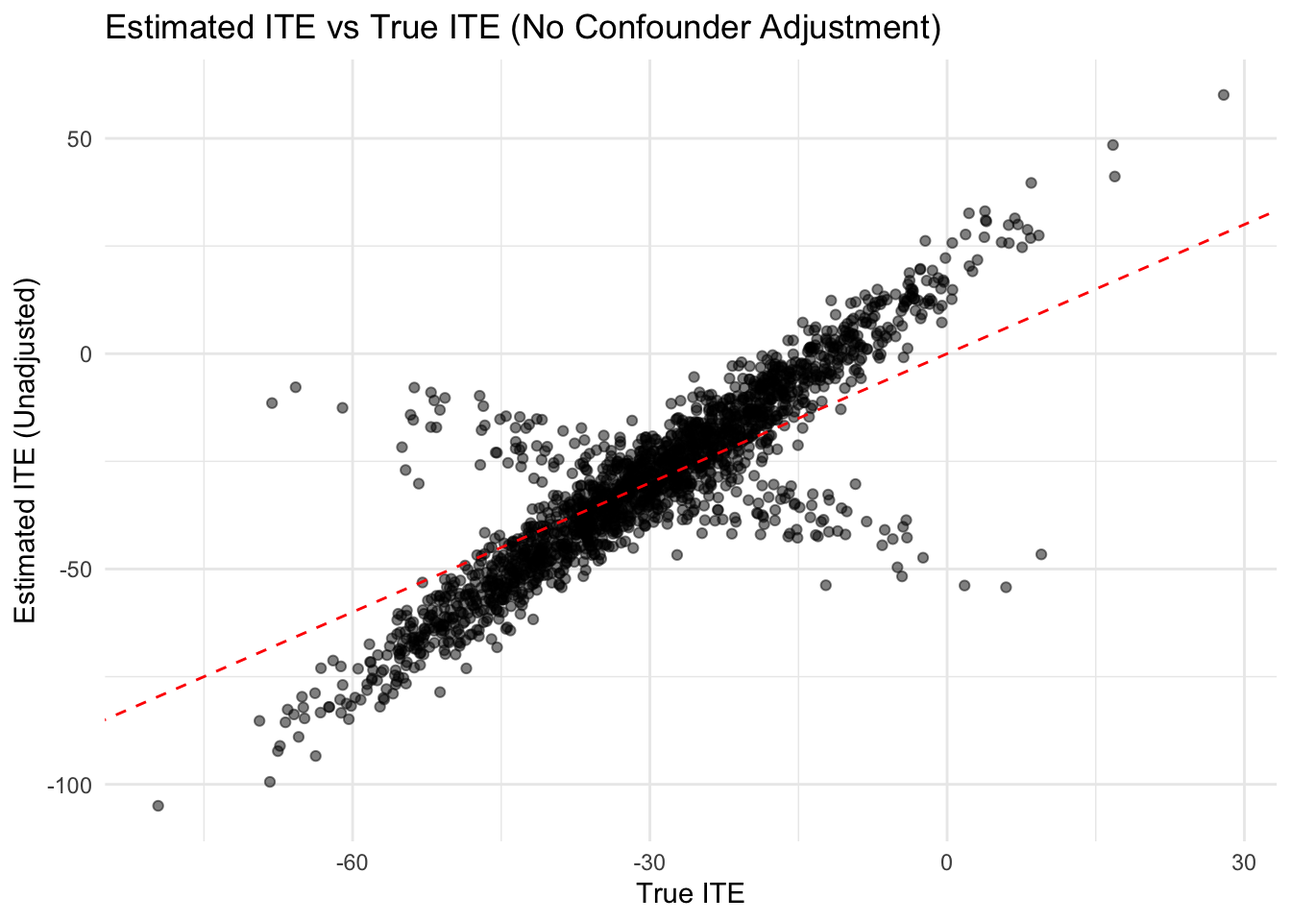
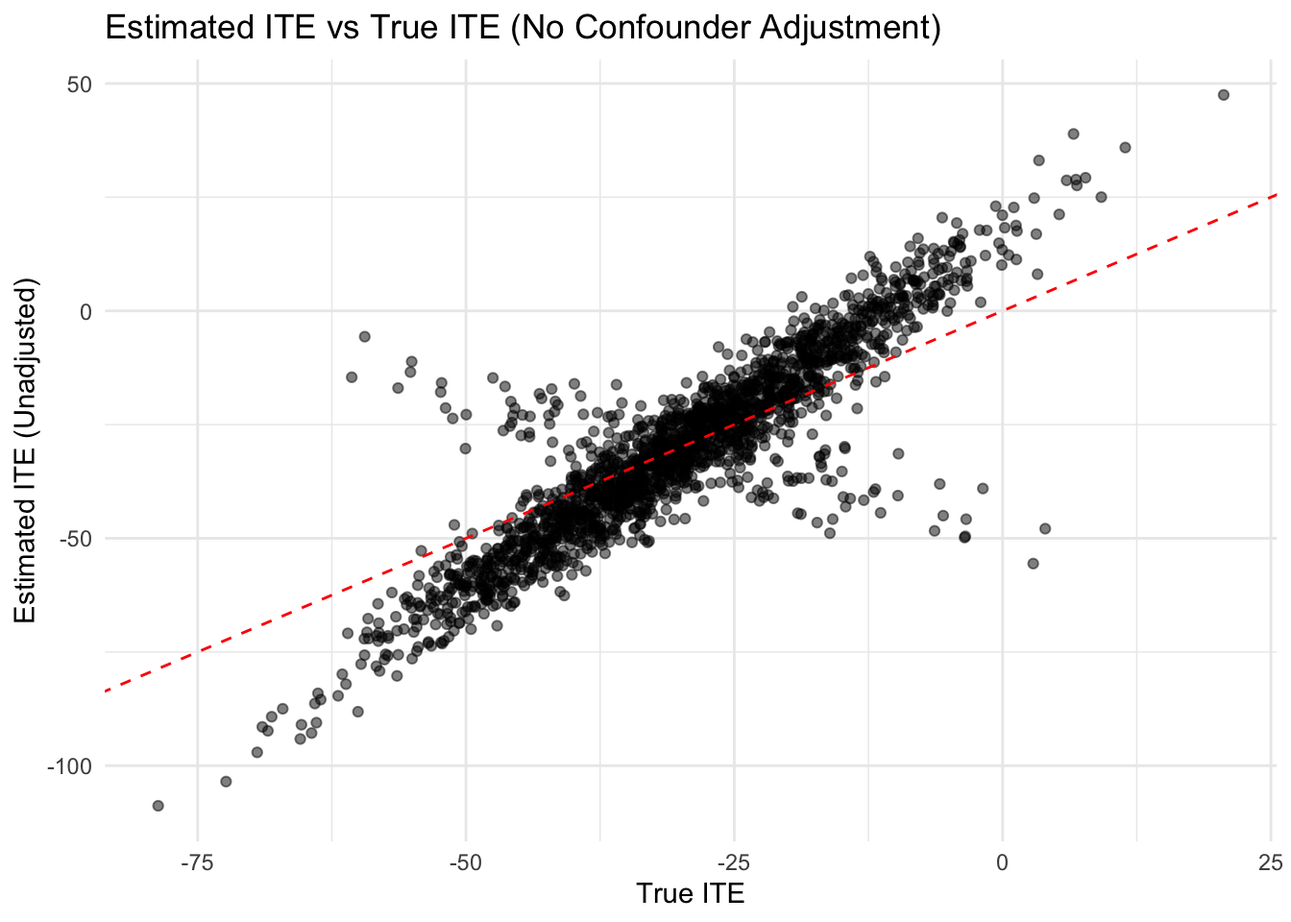
update week 1

diff --git a/docs/foundations-causal-thinking-in-public-health.html b/docs/foundations-causal-thinking-in-public-health.html
@@ -327,12 +327,12 @@ code span.wa { color: #60a0b0; font-weight: bold; font-style: italic; } /* Warni
 <span id="cb1-104"><a href="foundations-causal-thinking-in-public-health.html#cb1-104" tabindex="-1"></a>  <span class="fu">unique</span>(<span class="fu">predict</span>(model))</span>
 <span id="cb1-105"><a href="foundations-causal-thinking-in-public-health.html#cb1-105" tabindex="-1"></a>  })</span></code></pre></div>
 <pre><code>##     Treatment Mild_Avg Severe_Avg Total_Avg
-## 1 Treatment A     15 %     29.8 %    17.1 %
-## 2 Treatment B     10 %       20 %    18.6 %</code></pre>
+## 1 Treatment A     15 %       30 %    17.2 %
+## 2 Treatment B   10.2 %       20 %    18.6 %</code></pre>
 <pre><code>## `geom_smooth()` using formula = &#39;y ~ x&#39;
 ## `geom_smooth()` using formula = &#39;y ~ x&#39;</code></pre>
 <p><img src="Causal-Inference-Graduate_files/figure-html/unnamed-chunk-1-1.png" width="672" /></p>
-<pre><code>## [1] 0.1501008 0.1001850 0.2984300 0.2000042</code></pre>
+<pre><code>## [1] 0.1502633 0.1018750 0.3000350 0.2002608</code></pre>
 </div>
 <div id="introduction-to-counterfactuals-and-potential-outcomes" class="section level2 hasAnchor" number="1.2">
 <h2><span class="header-section-number">1.2</span> 1.2 Introduction to Counterfactuals and Potential Outcomes<a href="foundations-causal-thinking-in-public-health.html#introduction-to-counterfactuals-and-potential-outcomes" class="anchor-section" aria-label="Anchor link to header"></a></h2>
@@ -343,13 +343,13 @@ The causal effect for an individual is the difference: τi = Yi(1) − Yi(0)</p>
 <p>But here’s the catch: we can never observe both outcomes for the same person. This is known as the Fundamental Problem of Causal Inference. We only observe the outcome under the condition that actually occurred — everything else is unobserved, or counterfactual.</p>
 <p>As shown in the Simpson’s Paradox example above, failing to account for confounding variables can lead to conclusions that completely misrepresent the true causal effect. When we simply compare outcomes between treated and untreated groups without considering differences in their underlying characteristics (like disease severity), we risk attributing differences to the treatment that are actually due to selection bias. By thinking in terms of potential outcomes — what would have happened under treatment vs. no treatment — we can see how causal claims require more than just association. This framework makes clear that understanding the data-generating process is critical, and it motivates the need for methods that can uncover hidden structure in the data.</p>
 <p>While the average treatment effect (ATE) helps summarize the overall impact of a treatment, it often masks important variation across individuals. In practice, not everyone responds to treatment the same way — some benefit more than others, and some may even be harmed. This brings us to the concept of the Individual Treatment Effect (ITE), which asks: what was the treatment effect for this specific person? Although we can never observe both potential outcomes for a single individual, we can use modeling techniques to estimate ITEs and explore treatment effect heterogeneity. The following example demonstrates how this was done using simulated data.</p>
-<p>Section 1: Individual Treatment Effect (ITE)</p>
+<p>Individual Treatment Effect (ITE)</p>
 <p>In causal inference, the <strong>Individual Treatment Effect</strong> (ITE) measures how much one specific patient benefits from a treatment. ITE focuses on personalized benefits - how much an intervention would change the outcome for each person at the same time. The formula for the ITE is Yi(1) - Yi(0), where Yi(1) is the outcome if the person receives the treatment while Yi(0) is the outcome if the person does not receive the treatment.</p>
 <p>A fundamental problem in causal inference is that we can never observe both Yi(1) and Yi(0) for the same person, because each person either receives the treatment or does not, meaning one of the outcomes is missing. This is known as the fundamental problem of causal inference, and because of this, we use statistical methodologies and machine learning techniques to estimate ITE.</p>
 <p>To illustrate this concept, here is a healthcare scenario where I estimated the effect of a new blood pressure drug on patients. I accounted for characteristics in each patient like their age, BMI, and cholesterol levels, which may influence if they get the treatment or not and may influence their response to the treatment. Since I cannot observe each patient’s blood pressure both with and without the drug, I must estimate ITE by using statistical models.</p>
 <p>To do this, I first simulated healthcare data, including patient characteristics (covariates) and potential blood pressure outcomes. Next, I estimated the potential outcomes Y(0) and Y(1) using linear regression models for treated and untreated patients. Finally, I calculated the ITE as the difference between the predicted outcomes for each patient. By following this approach, I observed which patients benefit the most from the treatment.</p>
 <p>First up, I simulated the patient data. I created potential outcomes Y(0) and Y(1) for blood pressure. I intentionally assigned older people who have high cholesterol levels. Then, I computed the true ITE for each patient.</p>
-<p>Step 1: Simulating the Patient Data</p>
+<p>Simulating the Patient Data</p>
 <div class="sourceCode" id="cb5"><pre class="sourceCode r"><code class="sourceCode r"><span id="cb5-1"><a href="foundations-causal-thinking-in-public-health.html#cb5-1" tabindex="-1"></a>n <span class="ot">&lt;-</span> <span class="dv">2000</span></span>
 <span id="cb5-2"><a href="foundations-causal-thinking-in-public-health.html#cb5-2" tabindex="-1"></a></span>
 <span id="cb5-3"><a href="foundations-causal-thinking-in-public-health.html#cb5-3" tabindex="-1"></a>age <span class="ot">&lt;-</span> <span class="fu">rnorm</span>(n, <span class="at">mean =</span> <span class="dv">50</span>, <span class="at">sd =</span> <span class="dv">10</span>)</span>
@@ -374,15 +374,15 @@ The causal effect for an individual is the difference: τi = Yi(1) − Yi(0)</p>
 <span id="cb5-22"><a href="foundations-causal-thinking-in-public-health.html#cb5-22" tabindex="-1"></a>)</span>
 <span id="cb5-23"><a href="foundations-causal-thinking-in-public-health.html#cb5-23" tabindex="-1"></a></span>
 <span id="cb5-24"><a href="foundations-causal-thinking-in-public-health.html#cb5-24" tabindex="-1"></a><span class="fu">head</span>(data)</span></code></pre></div>
-<pre><code>##        age      bmi cholesterol treatment        y   true_ite
-## 1 51.21239 19.32571    199.1355         1 122.0544 -30.593752
-## 2 46.71113 18.38997    220.9961         1 140.2134 -21.167480
-## 3 35.14412 24.18724    269.4651         1 193.1101   6.837494
-## 4 34.57732 21.21429    224.7765         1 160.8229  -4.397648
-## 5 45.31836 32.00460    221.8089         1 147.0220 -18.600656
-## 6 50.34310 20.47678    214.2677         1 140.6280 -24.778958</code></pre>
+<pre><code>##        age      bmi cholesterol treatment        y  true_ite
+## 1 54.11946 28.84967    204.7884         0 170.9855 -34.87749
+## 2 50.63258 27.57561    180.9425         1 135.1774 -34.82342
+## 3 49.74311 23.44185    231.2146         1 151.0166 -18.75226
+## 4 55.98997 30.22157    222.0891         1 143.1399 -30.82974
+## 5 55.24231 32.36099    268.0598         1 152.7932 -15.14321
+## 6 45.45886 26.21826    118.4243         1 102.4790 -50.63645</code></pre>
 <p>Next, I estimated treatment effects using regression. Since I can’t observe both Y(0) and Y(1) for any individual, I used separate regressions for treatment and control groups. I used the models to predict counter factual outcomes for all patients and to compute the estimated ITE as the difference between Y(1) and Y(0).</p>
-<p>Step 2: Estimate Treatment Effects Using Regression</p>
+<p>Estimate Treatment Effects Using Regression</p>
 <div class="sourceCode" id="cb7"><pre class="sourceCode r"><code class="sourceCode r"><span id="cb7-1"><a href="foundations-causal-thinking-in-public-health.html#cb7-1" tabindex="-1"></a>control_model <span class="ot">&lt;-</span> <span class="fu">lm</span>(y <span class="sc">~</span> age <span class="sc">+</span> bmi <span class="sc">+</span> cholesterol, <span class="at">data =</span> data, <span class="at">subset =</span> (treatment <span class="sc">==</span> <span class="dv">0</span>))</span>
 <span id="cb7-2"><a href="foundations-causal-thinking-in-public-health.html#cb7-2" tabindex="-1"></a>treatment_model <span class="ot">&lt;-</span> <span class="fu">lm</span>(y <span class="sc">~</span> age <span class="sc">+</span> bmi <span class="sc">+</span> cholesterol, <span class="at">data =</span> data, <span class="at">subset =</span> (treatment <span class="sc">==</span> <span class="dv">1</span>))</span>
 <span id="cb7-3"><a href="foundations-causal-thinking-in-public-health.html#cb7-3" tabindex="-1"></a></span>
@@ -393,14 +393,14 @@ The causal effect for an individual is the difference: τi = Yi(1) − Yi(0)</p>
 <span id="cb7-8"><a href="foundations-causal-thinking-in-public-health.html#cb7-8" tabindex="-1"></a></span>
 <span id="cb7-9"><a href="foundations-causal-thinking-in-public-health.html#cb7-9" tabindex="-1"></a><span class="fu">head</span>(data[<span class="fu">c</span>(<span class="st">&quot;ite_estimate&quot;</span>, <span class="st">&quot;y0_hat&quot;</span>, <span class="st">&quot;y1_hat&quot;</span>)])</span></code></pre></div>
 <pre><code>##   ite_estimate   y0_hat   y1_hat
-## 1   -29.969201 158.3034 128.3342
-## 2   -19.019231 164.6406 145.6214
-## 3     6.503107 182.2635 188.7666
-## 4    -6.819532 173.2662 166.4467
-## 5   -17.850332 170.1936 152.3433
-## 6   -24.491258 162.0081 137.5169</code></pre>
+## 1    -33.13467 162.7963 129.6616
+## 2    -36.80210 159.4817 122.6796
+## 3    -20.75595 168.7458 147.9899
+## 4    -29.82166 165.6474 135.8257
+## 5    -15.29151 175.6609 160.3694
+## 6    -50.40386 149.3496  98.9457</code></pre>
 <p>Now, I plotted the true ITE vs the estimated ITE. Here, each point is a patient, and the red dashed line represents the ideal estimation. If the point fits well with the line, then the model is accurate.</p>
-<p>Step 3: Visualizing the Estimated ITE</p>
+<p>Visualizing the Estimated ITE</p>
 <div class="sourceCode" id="cb9"><pre class="sourceCode r"><code class="sourceCode r"><span id="cb9-1"><a href="foundations-causal-thinking-in-public-health.html#cb9-1" tabindex="-1"></a><span class="fu">library</span>(ggplot2)</span>
 <span id="cb9-2"><a href="foundations-causal-thinking-in-public-health.html#cb9-2" tabindex="-1"></a></span>
 <span id="cb9-3"><a href="foundations-causal-thinking-in-public-health.html#cb9-3" tabindex="-1"></a><span class="fu">ggplot</span>(data, <span class="fu">aes</span>(<span class="at">x =</span> true_ite, <span class="at">y =</span> ite_estimate)) <span class="sc">+</span> </span>
@@ -428,20 +428,138 @@ The causal effect for an individual is the difference: τi = Yi(1) − Yi(0)</p>
 <span id="cb10-15"><a href="foundations-causal-thinking-in-public-health.html#cb10-15" tabindex="-1"></a>  <span class="fu">theme_minimal</span>()</span></code></pre></div>
 <p><img src="Causal-Inference-Graduate_files/figure-html/unnamed-chunk-5-1.png" width="672" /></p>
 <p>Here are the top 10 patients who benefited the most from the treatment. This helps me identify patients who are most likely to benefit, as well as focus on individuals with high predicted response.</p>
-<p>Step 4: Patients Who Benefit Most</p>
+<p>Patients Who Benefit Most</p>
 <div class="sourceCode" id="cb11"><pre class="sourceCode r"><code class="sourceCode r"><span id="cb11-1"><a href="foundations-causal-thinking-in-public-health.html#cb11-1" tabindex="-1"></a>top_beneficiaries <span class="ot">&lt;-</span> data[<span class="fu">order</span>(data<span class="sc">$</span>ite_estimate), ][<span class="dv">1</span><span class="sc">:</span><span class="dv">10</span>, ]</span>
 <span id="cb11-2"><a href="foundations-causal-thinking-in-public-health.html#cb11-2" tabindex="-1"></a>top_beneficiaries[, <span class="fu">c</span>(<span class="st">&quot;age&quot;</span>, <span class="st">&quot;bmi&quot;</span>, <span class="st">&quot;cholesterol&quot;</span>, <span class="st">&quot;ite_estimate&quot;</span>)]</span></code></pre></div>
 <pre><code>##           age      bmi cholesterol ite_estimate
-## 890  79.56531 25.25102    132.2227    -76.89534
-## 1085 71.13526 20.28622    136.2727    -67.79399
-## 1671 65.88424 19.01770    123.1142    -67.05699
-## 530  66.57976 24.36929    131.6173    -65.18529
-## 1342 70.36012 28.86483    143.2993    -65.12207
-## 715  60.57192 21.67688    114.3072    -65.01186
-## 650  75.32424 14.62258    157.9358    -64.72851
-## 1893 78.52943 27.31188    169.1796    -64.49124
-## 311  56.74453 32.99274    109.4880    -63.31023
-## 1547 67.78288 27.14410    141.4462    -63.29710</code></pre>
+## 1030 76.28003 25.97585    130.3378    -77.58483
+## 540  77.31732 25.55016    144.2478    -74.43538
+## 46   68.23885 27.10988    125.5450    -71.01353
+## 1835 73.39986 22.93239    150.4312    -68.63314
+## 719  69.83239 30.06653    139.6650    -68.40047
+## 180  76.01105 22.17920    162.3714    -67.64216
+## 1477 74.43488 24.45408    157.5583    -67.54482
+## 608  68.45007 24.63717    138.6092    -67.26685
+## 1596 78.05473 23.59106    173.7549    -66.28034
+## 1189 71.16202 27.10987    151.2803    -66.19909</code></pre>
+<p>1.3 Causal Estimands and Identification</p>
+<p>Causal estimands are the quantities we aim to estimate to understand the effect of a treatment or intervention. The most common estimands include:
+- Average Treatment Effect (ATE): Measures the average difference in outcomes if everyone received the treatment versus if no one did.
+- Average Treatment Effect on the Treated (ATT): Measures the effect of treatment for those who actually received the treatment.
+- Average Treatment Effect on the Controls (ATC): Measures the effect for those who did not receive the treatment.
+- Conditional Average Treatment Effect (CATE): Measures the treatment effect for subgroups defined by observed characteristics (e.g., older vs. younger patients).</p>
+<p>Identification is the process of linking a causal estimand (like ATE) to observable data. Without valid identification, any estimates we produce may be biased or incorrect. One major challenge in causal inference is that we can never observe both potential outcomes for the same person — only the outcome under the actual treatment they received. This is the Fundamental Problem of Causal Inference.</p>
+<p>To overcome this, we make assumptions (like unconfoundedness or selection on observables) and use statistical models to estimate the missing potential outcome.</p>
+<p>Conditional Average Treatment Effect (CATE)</p>
+<p>The Conditional Average Treatment Effect (CATE) represents the expected treatment effect for a specific subgroup of patients with a particular characteristic. Unlike the Average Treatment Effect (ATE), which measures the treatment’s effect on the entire population, CATE understands that the population is not homogeneous and conditions on certain variables (e.g. age, BMI, cholesterol). CATE can be described as E[Y(1) - Y(0) | X], where X is the observed characteristics. This allows researchers to see which groups benefit more or less from a treatment, which can in-turn affect future decisions.</p>
+<p>For example, in clinical trials, a drug may work more effectively for older patients than younger ones. Another example would be a job program working more effectively on people with college degrees than people without college degrees. Estimating CATE allows business owners, researchers, and policymakers to make effective decisions that optimize outcomes for all groups.</p>
+<p>To estimate CATE from observational data, I must fit separate predictive models for the treated and control groups and then compute the expected difference in outcomes for different subgroups. I can estimate the CATE for age groups by splitting the data into younger individuals (age &lt; 40 years) and older individuals (age &gt;= 40 years) and then computing the average Individual Treatment Effect (ITE) within each group. I used the patient data from the above simulation and I estimated the individual treatment effect (ITE). Then, I computed the conditional average treatment effect (CATE) for age groups (young and old).</p>
+<p>Computing the Conditional Average Treatment Effect (CATE) for Age Groups</p>
+<div class="sourceCode" id="cb13"><pre class="sourceCode r"><code class="sourceCode r"><span id="cb13-1"><a href="foundations-causal-thinking-in-public-health.html#cb13-1" tabindex="-1"></a>threshold <span class="ot">&lt;-</span> <span class="dv">50</span></span>
+<span id="cb13-2"><a href="foundations-causal-thinking-in-public-health.html#cb13-2" tabindex="-1"></a></span>
+<span id="cb13-3"><a href="foundations-causal-thinking-in-public-health.html#cb13-3" tabindex="-1"></a>cate_young <span class="ot">&lt;-</span> <span class="fu">mean</span>(data<span class="sc">$</span>ite_estimate[data<span class="sc">$</span>age <span class="sc">&lt;</span> threshold])</span>
+<span id="cb13-4"><a href="foundations-causal-thinking-in-public-health.html#cb13-4" tabindex="-1"></a>cate_old <span class="ot">&lt;-</span> <span class="fu">mean</span>(data<span class="sc">$</span>ite_estimate[data<span class="sc">$</span>age <span class="sc">&gt;=</span> threshold])</span></code></pre></div>
+<p>Finally, I stored and display the CATE results.</p>
+<p>Store and Display CATE Results</p>
+<div class="sourceCode" id="cb14"><pre class="sourceCode r"><code class="sourceCode r"><span id="cb14-1"><a href="foundations-causal-thinking-in-public-health.html#cb14-1" tabindex="-1"></a>results <span class="ot">&lt;-</span> <span class="fu">data.frame</span>(</span>
+<span id="cb14-2"><a href="foundations-causal-thinking-in-public-health.html#cb14-2" tabindex="-1"></a>  <span class="at">age_group =</span> <span class="fu">c</span>(<span class="st">&quot;&lt; 40 years&quot;</span>, <span class="st">&quot;&gt;= 40 years&quot;</span>),</span>
+<span id="cb14-3"><a href="foundations-causal-thinking-in-public-health.html#cb14-3" tabindex="-1"></a>  <span class="at">cate_estimate =</span> <span class="fu">c</span>(cate_young, cate_old)</span>
+<span id="cb14-4"><a href="foundations-causal-thinking-in-public-health.html#cb14-4" tabindex="-1"></a>)</span>
+<span id="cb14-5"><a href="foundations-causal-thinking-in-public-health.html#cb14-5" tabindex="-1"></a></span>
+<span id="cb14-6"><a href="foundations-causal-thinking-in-public-health.html#cb14-6" tabindex="-1"></a><span class="fu">print</span>(results)</span></code></pre></div>
+<pre><code>##     age_group cate_estimate
+## 1  &lt; 40 years     -23.10563
+## 2 &gt;= 40 years     -38.47450</code></pre>
+<p>From the table, we can see that the CATE is more negative for older individuals, meaning that the treatment appears to be more effective for people older than 40. Because the CATE for younger individuals is lower, this means that the treatment is less effective for young people. This shows that age influences the effectiveness of the treatment. Here is a visualization of the CATE estimates.</p>
+<p>Visualization of the CATE Effects Based on Age</p>
+<div class="sourceCode" id="cb16"><pre class="sourceCode r"><code class="sourceCode r"><span id="cb16-1"><a href="foundations-causal-thinking-in-public-health.html#cb16-1" tabindex="-1"></a>cate_young_se <span class="ot">&lt;-</span> <span class="fu">sd</span>(data<span class="sc">$</span>ite_estimate[data<span class="sc">$</span>age <span class="sc">&lt;</span> threshold]) <span class="sc">/</span> <span class="fu">sqrt</span>(<span class="fu">sum</span>(data<span class="sc">$</span>age <span class="sc">&lt;</span> threshold))</span>
+<span id="cb16-2"><a href="foundations-causal-thinking-in-public-health.html#cb16-2" tabindex="-1"></a>cate_old_se <span class="ot">&lt;-</span> <span class="fu">sd</span>(data<span class="sc">$</span>ite_estimate[data<span class="sc">$</span>age <span class="sc">&gt;=</span> threshold]) <span class="sc">/</span> <span class="fu">sqrt</span>(<span class="fu">sum</span>(data<span class="sc">$</span>age <span class="sc">&gt;=</span> threshold))</span>
+<span id="cb16-3"><a href="foundations-causal-thinking-in-public-health.html#cb16-3" tabindex="-1"></a></span>
+<span id="cb16-4"><a href="foundations-causal-thinking-in-public-health.html#cb16-4" tabindex="-1"></a>results <span class="ot">&lt;-</span> <span class="fu">data.frame</span>(</span>
+<span id="cb16-5"><a href="foundations-causal-thinking-in-public-health.html#cb16-5" tabindex="-1"></a>  <span class="at">age_group =</span> <span class="fu">c</span>(<span class="st">&quot;&lt; 50 years&quot;</span>, <span class="st">&quot;&gt;= 50 years&quot;</span>),</span>
+<span id="cb16-6"><a href="foundations-causal-thinking-in-public-health.html#cb16-6" tabindex="-1"></a>  <span class="at">cate_estimate =</span> <span class="fu">c</span>(cate_young, cate_old),</span>
+<span id="cb16-7"><a href="foundations-causal-thinking-in-public-health.html#cb16-7" tabindex="-1"></a>  <span class="at">lower =</span> <span class="fu">c</span>(cate_young <span class="sc">-</span> <span class="fl">1.96</span> <span class="sc">*</span> cate_young_se, cate_old <span class="sc">-</span> <span class="fl">1.96</span> <span class="sc">*</span> cate_old_se),</span>
+<span id="cb16-8"><a href="foundations-causal-thinking-in-public-health.html#cb16-8" tabindex="-1"></a>  <span class="at">upper =</span> <span class="fu">c</span>(cate_young <span class="sc">+</span> <span class="fl">1.96</span> <span class="sc">*</span> cate_young_se, cate_old <span class="sc">+</span> <span class="fl">1.96</span> <span class="sc">*</span> cate_old_se)</span>
+<span id="cb16-9"><a href="foundations-causal-thinking-in-public-health.html#cb16-9" tabindex="-1"></a>)</span>
+<span id="cb16-10"><a href="foundations-causal-thinking-in-public-health.html#cb16-10" tabindex="-1"></a></span>
+<span id="cb16-11"><a href="foundations-causal-thinking-in-public-health.html#cb16-11" tabindex="-1"></a><span class="fu">ggplot</span>(results, <span class="fu">aes</span>(<span class="at">y =</span> age_group, <span class="at">x =</span> cate_estimate)) <span class="sc">+</span></span>
+<span id="cb16-12"><a href="foundations-causal-thinking-in-public-health.html#cb16-12" tabindex="-1"></a>  <span class="fu">geom_point</span>(<span class="at">color =</span> <span class="st">&quot;red&quot;</span>, <span class="at">size =</span> <span class="dv">2</span>) <span class="sc">+</span>  </span>
+<span id="cb16-13"><a href="foundations-causal-thinking-in-public-health.html#cb16-13" tabindex="-1"></a>  <span class="fu">geom_errorbar</span>(<span class="fu">aes</span>(<span class="at">xmin =</span> lower, <span class="at">xmax =</span> upper), <span class="at">width =</span> <span class="fl">0.4</span>, <span class="at">color =</span> <span class="st">&quot;blue&quot;</span>) <span class="sc">+</span> </span>
+<span id="cb16-14"><a href="foundations-causal-thinking-in-public-health.html#cb16-14" tabindex="-1"></a>  <span class="fu">geom_vline</span>(<span class="at">xintercept =</span> <span class="dv">0</span>, <span class="at">linetype =</span> <span class="st">&quot;dashed&quot;</span>, <span class="at">color =</span> <span class="st">&quot;black&quot;</span>) <span class="sc">+</span> </span>
+<span id="cb16-15"><a href="foundations-causal-thinking-in-public-health.html#cb16-15" tabindex="-1"></a>  <span class="fu">labs</span>(<span class="at">title =</span> <span class="st">&quot;Subgroup Analysis of Treatment Effect&quot;</span>,</span>
+<span id="cb16-16"><a href="foundations-causal-thinking-in-public-health.html#cb16-16" tabindex="-1"></a>       <span class="at">x =</span> <span class="st">&quot;Conditional Average Treatment Effect (CATE)&quot;</span>,</span>
+<span id="cb16-17"><a href="foundations-causal-thinking-in-public-health.html#cb16-17" tabindex="-1"></a>       <span class="at">y =</span> <span class="st">&quot;Age Group&quot;</span>) <span class="sc">+</span></span>
+<span id="cb16-18"><a href="foundations-causal-thinking-in-public-health.html#cb16-18" tabindex="-1"></a>  <span class="fu">theme_minimal</span>()</span></code></pre></div>
+<p><img src="Causal-Inference-Graduate_files/figure-html/unnamed-chunk-9-1.png" width="672" /></p>
+<p>Average Treatment Effect (ATE)</p>
+<p>The <strong>Average Treatment Effect (ATE)</strong> represents the impact of a treatment or exposure across an entire population. It is the difference between the average outcome with treatment and the average outcome without treatment. ATE is expressed as E[Y(1)] - E[Y(0)] where Y(1) is the potential outcome if treated and Y(0) is the potential outcome if not treated. ATE measures the treatment’s effectiveness but it also assumes homogeneity between the two groups, meaning it doesn’t account for differences within the groups. In real-life, treatment effects can be mitigated or enhanced because of characteristics like age, income or gender, which is why the Conditional Average Treatment Effect (CATE) are used to study heterogeneity, or differences between the treated and non-treated groups.</p>
+<p>Computing the Average Treatment Effect</p>
+<div class="sourceCode" id="cb17"><pre class="sourceCode r"><code class="sourceCode r"><span id="cb17-1"><a href="foundations-causal-thinking-in-public-health.html#cb17-1" tabindex="-1"></a>ate <span class="ot">&lt;-</span> <span class="fu">mean</span>(data<span class="sc">$</span>ite_estimate)</span>
+<span id="cb17-2"><a href="foundations-causal-thinking-in-public-health.html#cb17-2" tabindex="-1"></a></span>
+<span id="cb17-3"><a href="foundations-causal-thinking-in-public-health.html#cb17-3" tabindex="-1"></a><span class="fu">print</span>(<span class="fu">paste</span>(<span class="st">&quot;The Average Treatment Effect (ATE) is&quot;</span>, <span class="fu">round</span>(ate, <span class="dv">2</span>)))</span></code></pre></div>
+<pre><code>## [1] &quot;The Average Treatment Effect (ATE) is -30.67&quot;</code></pre>
+<p>Here is a visualization for the <strong>Average Treatment Effect (ATE)</strong>. I created a simple bar chart comparing the health outcome for treated and non-treated individuals. The bar chart shows a higher blood pressure for non-treated individuals and a lower blood pressure for treated individuals, showing the positive impacts of the treatment The height difference between the two bars represents the ATE.</p>
+<p>ATE Visualization</p>
+<div class="sourceCode" id="cb19"><pre class="sourceCode r"><code class="sourceCode r"><span id="cb19-1"><a href="foundations-causal-thinking-in-public-health.html#cb19-1" tabindex="-1"></a>control_se <span class="ot">&lt;-</span> <span class="fu">sd</span>(data<span class="sc">$</span>ite_estimate[data<span class="sc">$</span>treatment <span class="sc">==</span> <span class="dv">0</span>]) <span class="sc">/</span> <span class="fu">sqrt</span>(<span class="fu">sum</span>(data<span class="sc">$</span>treatment <span class="sc">==</span> <span class="dv">0</span>))</span>
+<span id="cb19-2"><a href="foundations-causal-thinking-in-public-health.html#cb19-2" tabindex="-1"></a>treated_se <span class="ot">&lt;-</span> <span class="fu">sd</span>(data<span class="sc">$</span>ite_estimate[data<span class="sc">$</span>treatment <span class="sc">==</span> <span class="dv">1</span>]) <span class="sc">/</span> <span class="fu">sqrt</span>(<span class="fu">sum</span>(data<span class="sc">$</span>treatment <span class="sc">==</span> <span class="dv">1</span>))</span>
+<span id="cb19-3"><a href="foundations-causal-thinking-in-public-health.html#cb19-3" tabindex="-1"></a></span>
+<span id="cb19-4"><a href="foundations-causal-thinking-in-public-health.html#cb19-4" tabindex="-1"></a>control_mean <span class="ot">&lt;-</span> <span class="fu">mean</span>(data<span class="sc">$</span>y0_hat[data<span class="sc">$</span>treatment <span class="sc">==</span> <span class="dv">0</span>])</span>
+<span id="cb19-5"><a href="foundations-causal-thinking-in-public-health.html#cb19-5" tabindex="-1"></a>treated_mean <span class="ot">&lt;-</span> <span class="fu">mean</span>(data<span class="sc">$</span>y1_hat[data<span class="sc">$</span>treatment <span class="sc">==</span> <span class="dv">1</span>])</span>
+<span id="cb19-6"><a href="foundations-causal-thinking-in-public-health.html#cb19-6" tabindex="-1"></a></span>
+<span id="cb19-7"><a href="foundations-causal-thinking-in-public-health.html#cb19-7" tabindex="-1"></a>results <span class="ot">&lt;-</span> <span class="fu">data.frame</span>(</span>
+<span id="cb19-8"><a href="foundations-causal-thinking-in-public-health.html#cb19-8" tabindex="-1"></a>  <span class="at">group =</span> <span class="fu">c</span>(<span class="st">&quot;Control (Y0)&quot;</span>, <span class="st">&quot;Treated (Y1)&quot;</span>),</span>
+<span id="cb19-9"><a href="foundations-causal-thinking-in-public-health.html#cb19-9" tabindex="-1"></a>  <span class="at">ate_estimate =</span> <span class="fu">c</span>(control_mean, treated_mean),</span>
+<span id="cb19-10"><a href="foundations-causal-thinking-in-public-health.html#cb19-10" tabindex="-1"></a>  <span class="at">lower =</span> <span class="fu">c</span>(control_mean <span class="sc">-</span> <span class="fl">1.96</span> <span class="sc">*</span> control_se, treated_mean <span class="sc">-</span> <span class="fl">1.96</span> <span class="sc">*</span> treated_se),</span>
+<span id="cb19-11"><a href="foundations-causal-thinking-in-public-health.html#cb19-11" tabindex="-1"></a>  <span class="at">upper =</span> <span class="fu">c</span>(control_mean <span class="sc">+</span> <span class="fl">1.96</span> <span class="sc">*</span> control_se, treated_mean <span class="sc">+</span> <span class="fl">1.96</span> <span class="sc">*</span> treated_se)</span>
+<span id="cb19-12"><a href="foundations-causal-thinking-in-public-health.html#cb19-12" tabindex="-1"></a>)</span>
+<span id="cb19-13"><a href="foundations-causal-thinking-in-public-health.html#cb19-13" tabindex="-1"></a></span>
+<span id="cb19-14"><a href="foundations-causal-thinking-in-public-health.html#cb19-14" tabindex="-1"></a><span class="fu">ggplot</span>(results, <span class="fu">aes</span>(<span class="at">y =</span> group, <span class="at">x =</span> ate_estimate)) <span class="sc">+</span></span>
+<span id="cb19-15"><a href="foundations-causal-thinking-in-public-health.html#cb19-15" tabindex="-1"></a>  <span class="fu">geom_point</span>(<span class="at">color =</span> <span class="st">&quot;red&quot;</span>, <span class="at">size =</span> <span class="dv">2</span>) <span class="sc">+</span>  </span>
+<span id="cb19-16"><a href="foundations-causal-thinking-in-public-health.html#cb19-16" tabindex="-1"></a>  <span class="fu">geom_errorbar</span>(<span class="fu">aes</span>(<span class="at">xmin =</span> lower, <span class="at">xmax =</span> upper), <span class="at">width =</span> <span class="fl">0.4</span>, <span class="at">color =</span> <span class="st">&quot;blue&quot;</span>) <span class="sc">+</span> </span>
+<span id="cb19-17"><a href="foundations-causal-thinking-in-public-health.html#cb19-17" tabindex="-1"></a>  <span class="fu">geom_vline</span>(<span class="at">xintercept =</span> <span class="dv">0</span>, <span class="at">linetype =</span> <span class="st">&quot;dashed&quot;</span>, <span class="at">color =</span> <span class="st">&quot;black&quot;</span>) <span class="sc">+</span> </span>
+<span id="cb19-18"><a href="foundations-causal-thinking-in-public-health.html#cb19-18" tabindex="-1"></a>  <span class="fu">labs</span>(<span class="at">title =</span> <span class="st">&quot;Estimated Average Treatment Effect&quot;</span>,</span>
+<span id="cb19-19"><a href="foundations-causal-thinking-in-public-health.html#cb19-19" tabindex="-1"></a>       <span class="at">x =</span> <span class="st">&quot;Estimated Average Treatment Effect&quot;</span>,</span>
+<span id="cb19-20"><a href="foundations-causal-thinking-in-public-health.html#cb19-20" tabindex="-1"></a>       <span class="at">y =</span> <span class="st">&quot;Control vs. Treated&quot;</span>) <span class="sc">+</span></span>
+<span id="cb19-21"><a href="foundations-causal-thinking-in-public-health.html#cb19-21" tabindex="-1"></a>  <span class="fu">theme_minimal</span>()</span></code></pre></div>
+<p><img src="Causal-Inference-Graduate_files/figure-html/unnamed-chunk-11-1.png" width="672" /></p>
+<p>Average Treatment Effect on the Treated (ATT)</p>
+<p>The <strong>Average Treatment Effect on the Treated (ATT)</strong> measures the impact of a treatment or exposure only among people who received it. Unlike the <strong>Average Treatment Effect (ATE)</strong>, which looks at the effect across the entire population, ATT focuses on those that were actually exposed or treated. ATT is expressed as E[Y(1) - Y(0)|T=1] where Y(1) is the potential outcome with treatment and Y(0) is the potential outcome without treatment, and T=1 indicates only those people who were actually exposed or treated.</p>
+<p>ATT helps determine whether the intervention is effective or not for the treated population. It is particularly useful for analyzing policies or medical treatments when the treatment is not randomly assigned. In the case of looking at treatments and blood pressure changes, ATT helps answer the question: How much does the treatment impact the blood pressure of individuals who were actually treated?</p>
+<p>Average Treatment Effect on the Treated (ATT) Calculated</p>
+<div class="sourceCode" id="cb20"><pre class="sourceCode r"><code class="sourceCode r"><span id="cb20-1"><a href="foundations-causal-thinking-in-public-health.html#cb20-1" tabindex="-1"></a>att <span class="ot">&lt;-</span> <span class="fu">mean</span>(data<span class="sc">$</span>ite_estimate[data<span class="sc">$</span>treatment <span class="sc">==</span> <span class="dv">1</span>])</span>
+<span id="cb20-2"><a href="foundations-causal-thinking-in-public-health.html#cb20-2" tabindex="-1"></a></span>
+<span id="cb20-3"><a href="foundations-causal-thinking-in-public-health.html#cb20-3" tabindex="-1"></a><span class="fu">print</span>(<span class="fu">paste</span>(<span class="st">&quot;The Average Treatment Effect on the Treated (ATT) is&quot;</span>, <span class="fu">round</span>(att, <span class="dv">2</span>)))</span></code></pre></div>
+<pre><code>## [1] &quot;The Average Treatment Effect on the Treated (ATT) is -30.76&quot;</code></pre>
+<p>Average Treatment Effect on the Control (ATC)</p>
+<p>The <strong>Average Treatment Effect on the Control (ATC)</strong> measures the effect of a treatment on individuals who were not actually exposed to the treatment or exposure. Unlike the <strong>Average Treatment Effect on the Treated (ATT)</strong>, which estimates the impact for those who received the treatment, ATC explains how the control group would have been affected if they have been treated. ATC is expressed as E[Y(1) - Y(0)|T=0] where Y(1) represents the potential outcome with treatment, Y(0) represents the potential outcome without treatment, and T=0 represents people who did not receive treatment. ATC is useful when analyzing policies or medical treatments to understand how untreated individuals would have been affected by the intervention.</p>
+<p>In this scenario, ATC answers the question: How much would the treatment have affected individuals who were not exposed to it? To calculate ATC, I took the average treatment effect of the subset of the population that were not exposed to the treatment. If ATC is negative, it means that the treatment would have harmed the control group if they were exposed. By comparing the ATT and the ATC, it helps us determine if the treatment has differential effects across subgroups.</p>
+<p>Average Treatment Effect on the Control (ATC) Calculated</p>
+<div class="sourceCode" id="cb22"><pre class="sourceCode r"><code class="sourceCode r"><span id="cb22-1"><a href="foundations-causal-thinking-in-public-health.html#cb22-1" tabindex="-1"></a>atc <span class="ot">&lt;-</span> <span class="fu">mean</span>(data<span class="sc">$</span>ite_estimate[data<span class="sc">$</span>treatment <span class="sc">==</span> <span class="dv">0</span>])</span>
+<span id="cb22-2"><a href="foundations-causal-thinking-in-public-health.html#cb22-2" tabindex="-1"></a></span>
+<span id="cb22-3"><a href="foundations-causal-thinking-in-public-health.html#cb22-3" tabindex="-1"></a><span class="fu">print</span>(<span class="fu">paste</span>(<span class="st">&quot;The Average Treatment Effect on the Control (ATC) is&quot;</span>, <span class="fu">round</span>(atc, <span class="dv">2</span>)))</span></code></pre></div>
+<pre><code>## [1] &quot;The Average Treatment Effect on the Control (ATC) is -29.71&quot;</code></pre>
+<p>Now, I’ve created a visualization comparing how the treatment effect differs for treated and control groups.</p>
+<p>ATT vs. ATC Visualization</p>
+<div class="sourceCode" id="cb24"><pre class="sourceCode r"><code class="sourceCode r"><span id="cb24-1"><a href="foundations-causal-thinking-in-public-health.html#cb24-1" tabindex="-1"></a>att_se <span class="ot">&lt;-</span> <span class="fu">sd</span>(data<span class="sc">$</span>ite_estimate[data<span class="sc">$</span>treatment <span class="sc">==</span> <span class="dv">1</span>]) <span class="sc">/</span> <span class="fu">sqrt</span>(<span class="fu">sum</span>(data<span class="sc">$</span>treatment <span class="sc">==</span> <span class="dv">1</span>))</span>
+<span id="cb24-2"><a href="foundations-causal-thinking-in-public-health.html#cb24-2" tabindex="-1"></a>atc_se <span class="ot">&lt;-</span> <span class="fu">sd</span>(data<span class="sc">$</span>ite_estimate[data<span class="sc">$</span>treatment <span class="sc">==</span> <span class="dv">0</span>]) <span class="sc">/</span> <span class="fu">sqrt</span>(<span class="fu">sum</span>(data<span class="sc">$</span>treatment <span class="sc">==</span> <span class="dv">0</span>))</span>
+<span id="cb24-3"><a href="foundations-causal-thinking-in-public-health.html#cb24-3" tabindex="-1"></a></span>
+<span id="cb24-4"><a href="foundations-causal-thinking-in-public-health.html#cb24-4" tabindex="-1"></a>results <span class="ot">&lt;-</span> <span class="fu">data.frame</span>(</span>
+<span id="cb24-5"><a href="foundations-causal-thinking-in-public-health.html#cb24-5" tabindex="-1"></a>  <span class="at">group =</span> <span class="fu">c</span>(<span class="st">&quot;ATT (Treated)&quot;</span>, <span class="st">&quot;ATC (Control)&quot;</span>),</span>
+<span id="cb24-6"><a href="foundations-causal-thinking-in-public-health.html#cb24-6" tabindex="-1"></a>  <span class="at">estimate =</span> <span class="fu">c</span>(att, atc),</span>
+<span id="cb24-7"><a href="foundations-causal-thinking-in-public-health.html#cb24-7" tabindex="-1"></a>  <span class="at">lower =</span> <span class="fu">c</span>(att <span class="sc">-</span> <span class="fl">1.96</span> <span class="sc">*</span> att_se, atc <span class="sc">-</span> <span class="fl">1.96</span> <span class="sc">*</span> atc_se),</span>
+<span id="cb24-8"><a href="foundations-causal-thinking-in-public-health.html#cb24-8" tabindex="-1"></a>  <span class="at">upper =</span> <span class="fu">c</span>(att <span class="sc">+</span> <span class="fl">1.96</span> <span class="sc">*</span> att_se, atc <span class="sc">+</span> <span class="fl">1.96</span> <span class="sc">*</span> atc_se)</span>
+<span id="cb24-9"><a href="foundations-causal-thinking-in-public-health.html#cb24-9" tabindex="-1"></a>)</span>
+<span id="cb24-10"><a href="foundations-causal-thinking-in-public-health.html#cb24-10" tabindex="-1"></a></span>
+<span id="cb24-11"><a href="foundations-causal-thinking-in-public-health.html#cb24-11" tabindex="-1"></a><span class="fu">ggplot</span>(results, <span class="fu">aes</span>(<span class="at">y =</span> group, <span class="at">x =</span> estimate)) <span class="sc">+</span></span>
+<span id="cb24-12"><a href="foundations-causal-thinking-in-public-health.html#cb24-12" tabindex="-1"></a>  <span class="fu">geom_point</span>(<span class="at">color =</span> <span class="st">&quot;red&quot;</span>, <span class="at">size =</span> <span class="dv">2</span>) <span class="sc">+</span>  </span>
+<span id="cb24-13"><a href="foundations-causal-thinking-in-public-health.html#cb24-13" tabindex="-1"></a>  <span class="fu">geom_errorbar</span>(<span class="fu">aes</span>(<span class="at">xmin =</span> lower, <span class="at">xmax =</span> upper), <span class="at">width =</span> <span class="fl">0.4</span>, <span class="at">color =</span> <span class="st">&quot;blue&quot;</span>) <span class="sc">+</span> </span>
+<span id="cb24-14"><a href="foundations-causal-thinking-in-public-health.html#cb24-14" tabindex="-1"></a>  <span class="fu">geom_vline</span>(<span class="at">xintercept =</span> <span class="dv">0</span>, <span class="at">linetype =</span> <span class="st">&quot;dashed&quot;</span>, <span class="at">color =</span> <span class="st">&quot;black&quot;</span>) <span class="sc">+</span> </span>
+<span id="cb24-15"><a href="foundations-causal-thinking-in-public-health.html#cb24-15" tabindex="-1"></a>  <span class="fu">labs</span>(<span class="at">title =</span> <span class="st">&quot;Estimated ATT vs. ATC&quot;</span>,</span>
+<span id="cb24-16"><a href="foundations-causal-thinking-in-public-health.html#cb24-16" tabindex="-1"></a>       <span class="at">x =</span> <span class="st">&quot;Estimated Treatment Effect&quot;</span>,</span>
+<span id="cb24-17"><a href="foundations-causal-thinking-in-public-health.html#cb24-17" tabindex="-1"></a>       <span class="at">y =</span> <span class="st">&quot;Group&quot;</span>) <span class="sc">+</span></span>
+<span id="cb24-18"><a href="foundations-causal-thinking-in-public-health.html#cb24-18" tabindex="-1"></a>  <span class="fu">theme_minimal</span>()</span></code></pre></div>
+<p><img src="Causal-Inference-Graduate_files/figure-html/unnamed-chunk-14-1.png" width="672" /></p>
+<p>Since the ATT is more negative than to ATC, it indicates that the treatment is more effective on the treated group. One potential explanation is that age and cholesterol are confounding variables. There are more older people and people with higher cholesterol levels in the treated group than the non-treated, meaning that this could skew the results as the groups are not homogenous.</p>
 
 </div>
 </div>
